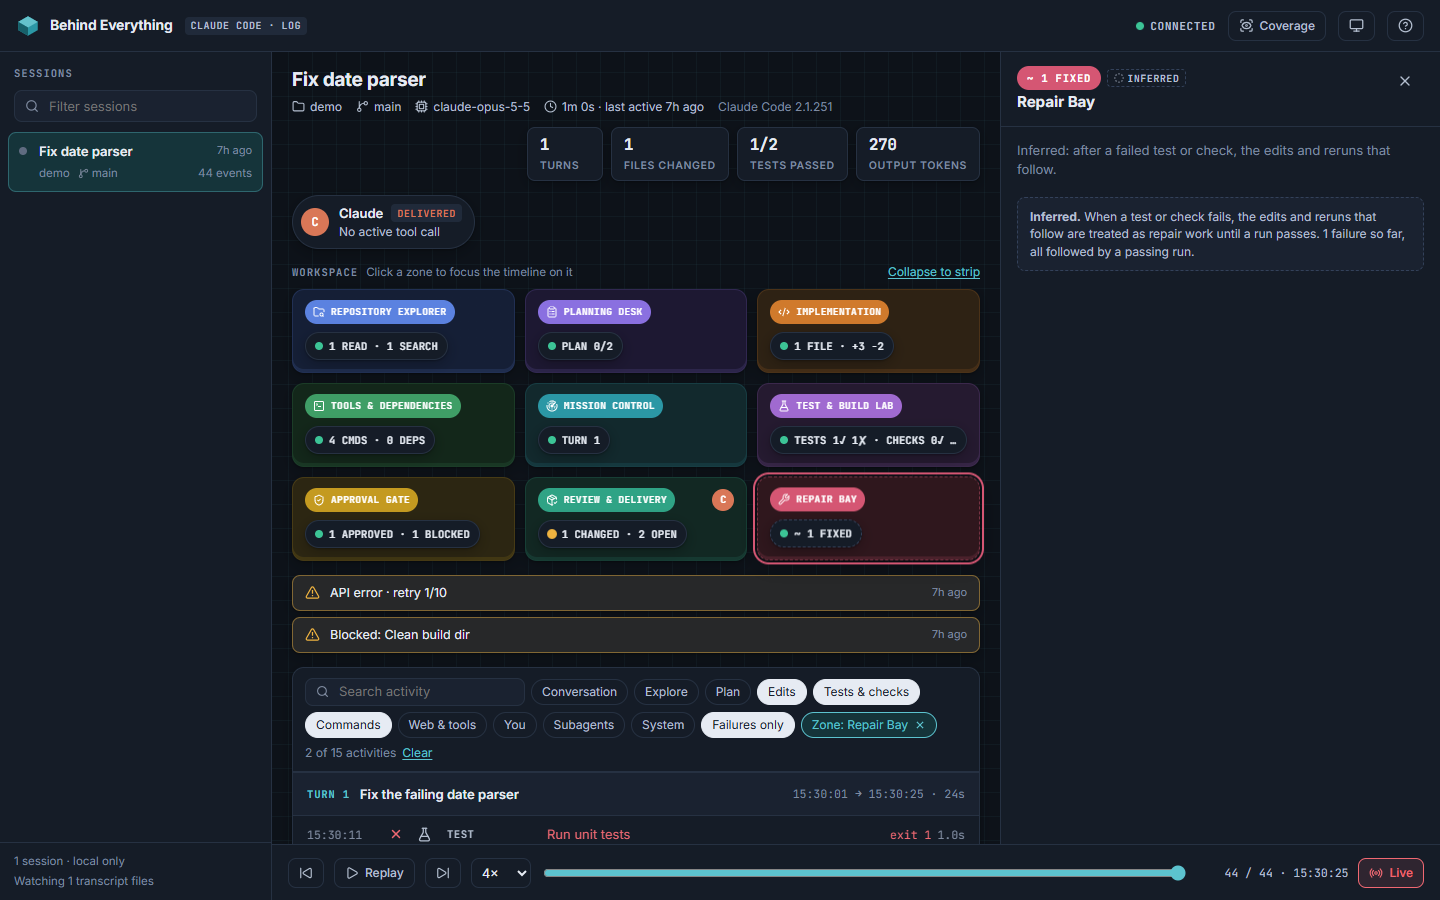
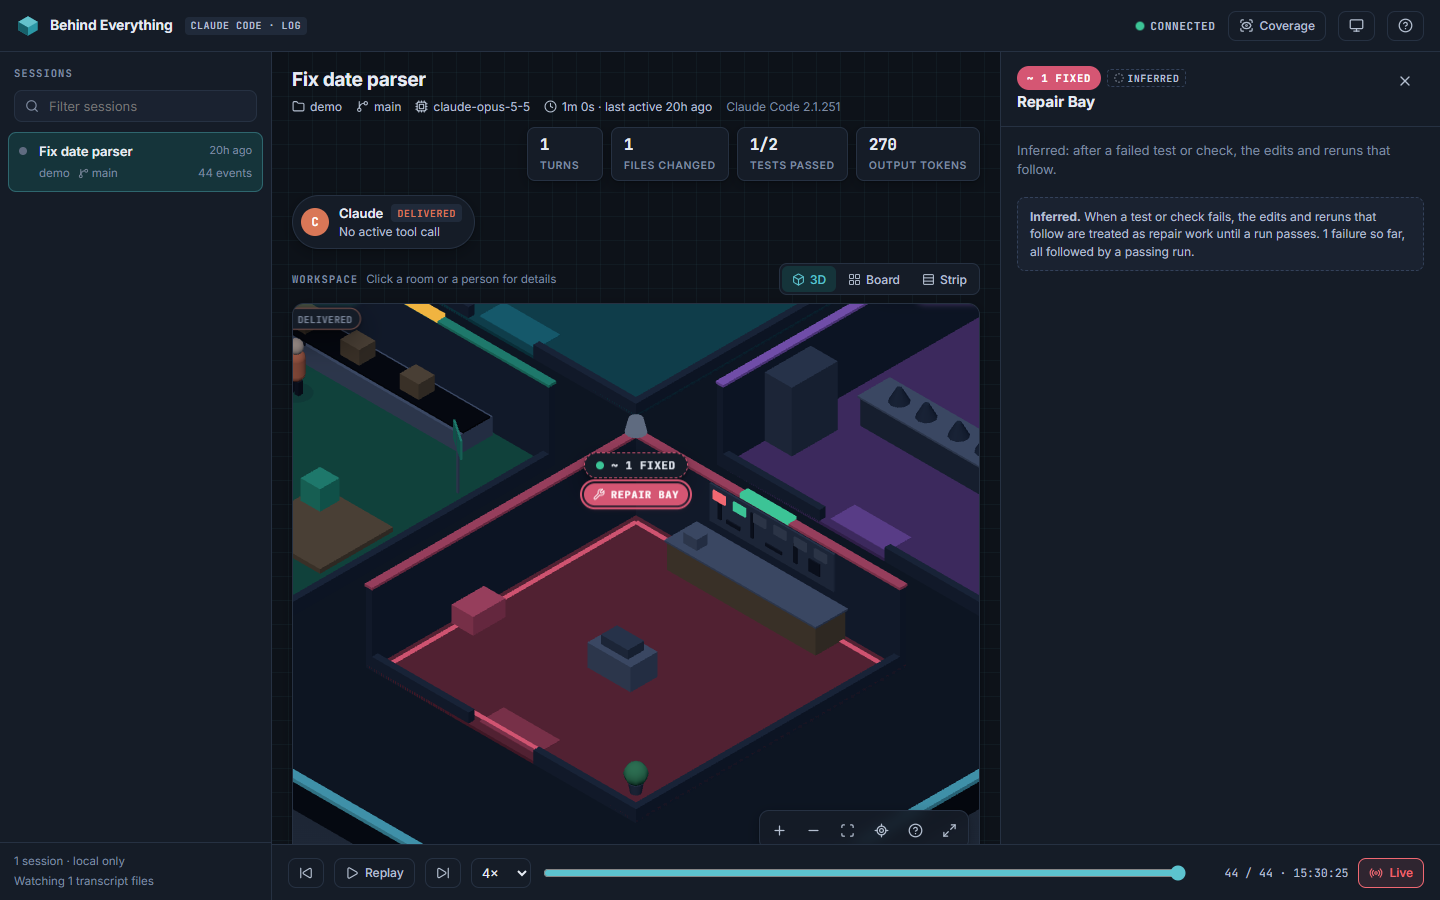
test(e2e): drive the 3D world on Chromium, Firefox and WebKit; docs for Phase 3
Browser tests for rendering, clicking rooms vs dragging, zoom by wheel,
buttons and keys, full screen, replay, themes, view switching, the
no-WebGL fallback, reduced motion, seven screen sizes with touch, and
event-to-pixel latency (asserted < 250 ms on Chromium). CI runs the
suite on all three engines. README and PLAN describe the world and the
measured performance; screenshots regenerated from the synthetic session.

Changed region(s): [[0.1875, 0.28, 0.6875, 0.9333], [0.5625, 0.84, 0.6875, 0.9333], [0.4688, 0.0933, 0.5938, 0.1244]]

diff --git a/e2e/world.e2e.ts b/e2e/world.e2e.ts
@@ -1,0 +1,240 @@
+import fs from 'node:fs';
+import path from 'node:path';
+import { expect, test, type Page } from '@playwright/test';
+import { TRANSCRIPT } from '../playwright.config.ts';
+import { demoSession, SESSION } from '../test/fixtures/claude.ts';
+
+/**
+ * The 3D workspace, driven like a user would: mouse, touch, keyboard, every common screen size,
+ * light and dark, reduced motion, and a browser without WebGL.
+ */
+
+type Stats = { frames: number; drawCalls: number; triangles: number; zoom: number; eventToPixelMs?: number };
+const stats = (page: Page) => page.evaluate(() => ({ ...(window as unknown as { __be: { world: Stats } }).__be.world }));
+const roomAt = (page: Page, zone: string) => page.evaluate(z => (window as unknown as { __be: { room(z: string): { x: number; y: number } } }).__be.room(z), zone);
+const map = (page: Page) => page.getByRole('group', { name: /Workspace map/ });
+const room = (page: Page, name: string) => map(page).getByRole('button', { name: new RegExp(`^${name}:`) });
+const ROOMS = ['Repository Explorer', 'Planning Desk', 'Implementation', 'Tools & Dependencies', 'Mission Control', 'Test & Build Lab', 'Approval Gate', 'Review & Delivery', 'Repair Bay'];
+
+function watchErrors(page: Page) {
+  const errors: string[] = [];
+  page.on('console', m => { if (m.type() === 'error') errors.push(m.text()); });
+  page.on('pageerror', e => errors.push(String(e)));
+  return errors;
+}
+
+async function open(page: Page, url = '/') {
+  await page.goto(url);
+  await expect(map(page).locator('canvas')).toBeVisible();
+  await expect.poll(async () => (await stats(page)).frames).toBeGreaterThan(0);
+}
+
+test('renders the building, its rooms and the agents from the session', async ({ page }) => {
+  const errors = watchErrors(page);
+  await open(page);
+  const s = await stats(page);
+  // The whole building is a handful of draw calls: merged static geometry + instanced props + people.
+  expect(s.drawCalls).toBeGreaterThan(2);
+  expect(s.drawCalls).toBeLessThan(40);
+  for (const name of ROOMS) await expect(room(page, name)).toBeVisible();
+  await expect(room(page, 'Test & Build Lab')).toContainText('TESTS 1✓ 1✗');
+  await expect(room(page, 'Repair Bay')).toContainText('~ 1 FIXED');
+  // Room labels sit inside the map.
+  const box = (await map(page).boundingBox())!;
+  for (const name of ROOMS) {
+    const b = (await room(page, name).boundingBox())!;
+    expect(b.x).toBeGreaterThanOrEqual(box.x - 1);
+    expect(b.x + b.width).toBeLessThanOrEqual(box.x + box.width + 1);
+    expect(b.y).toBeGreaterThanOrEqual(box.y - 1);
+  }
+  await expect(map(page).getByRole('button', { name: /^Claude:/ })).toBeVisible();
+  expect(errors).toEqual([]);
+});
+
+test('clicking a room on the map opens it; dragging moves the map without selecting', async ({ page }) => {
+  await open(page);
+  const details = page.getByRole('complementary', { name: 'Details' });
+  const p = await roomAt(page, 'implementation');
+  await page.mouse.click(p.x, p.y);
+  await expect(details.getByRole('heading')).toHaveText('Implementation');
+  await expect(room(page, 'Implementation')).toHaveAttribute('aria-pressed', 'true');
+  await page.keyboard.press('Escape');
+  await expect(details).toBeHidden();
+
+  // Drag across a room: the map pans, nothing gets selected.
+  const before = (await room(page, 'Mission Control').boundingBox())!;
+  const m = await roomAt(page, 'mission');
+  await page.mouse.move(m.x, m.y);
+  await page.mouse.down();
+  await page.mouse.move(m.x + 60, m.y + 30, { steps: 6 });
+  await page.mouse.up();
+  await expect.poll(async () => (await room(page, 'Mission Control').boundingBox())!.x).toBeGreaterThan(before.x + 40);
+  await expect(details).toBeHidden();
+});
+
+test('zooms with ctrl+wheel, the buttons and the keyboard; a plain wheel scrolls the page and explains', async ({ page }) => {
+  await open(page);
+  const zoom = async () => (await stats(page)).zoom;
+  const z0 = await zoom();
+  let m = await roomAt(page, 'mission');
+  await page.mouse.move(m.x, m.y);
+  await page.mouse.wheel(0, 300);
+  await expect(page.getByRole('status').filter({ hasText: 'Ctrl + scroll' })).toBeVisible();
+  expect(await zoom()).toBe(z0);
+  // That wheel scrolled the page: find the map again.
+  await map(page).scrollIntoViewIfNeeded();
+  m = await roomAt(page, 'mission');
+  await page.mouse.move(m.x, m.y);
+  await page.keyboard.down('Control');
+  await page.mouse.wheel(0, -200);
+  await page.keyboard.up('Control');
+  await expect.poll(zoom).toBeGreaterThan(z0 * 1.3);
+
+  await page.getByRole('button', { name: 'Fit the map' }).click();
+  await expect.poll(zoom).toBeCloseTo(z0, 1);
+  await page.getByRole('button', { name: 'Zoom in' }).click();
+  await expect.poll(zoom).toBeGreaterThan(z0 * 1.3);
+
+  await map(page).focus();
+  await page.keyboard.press('0');
+  await expect.poll(zoom).toBeCloseTo(z0, 1);
+  await page.keyboard.press('+');
+  await expect.poll(zoom).toBeGreaterThan(z0 * 1.2);
+  // Arrow keys pan the focused map instead of moving through the timeline.
+  const x0 = (await room(page, 'Mission Control').boundingBox())!.x;
+  await page.keyboard.press('ArrowLeft');
+  await expect.poll(async () => (await room(page, 'Mission Control').boundingBox())!.x).toBeGreaterThan(x0 + 40);
+  await expect(page.getByRole('complementary', { name: 'Details' })).toBeHidden();
+});
+
+test('full screen map: fills the window, keeps replay and details usable, Esc returns', async ({ page }) => {
+  await open(page);
+  await page.getByRole('button', { name: 'Full screen map' }).click();
+  const vp = page.viewportSize()!;
+  await expect.poll(async () => (await map(page).boundingBox())!.width).toBe(vp.width);
+  await expect(page.getByRole('slider', { name: 'Replay position' })).toBeVisible();
+  await room(page, 'Test & Build Lab').click();
+  await expect(page.getByRole('complementary', { name: 'Details' })).toBeVisible();
+  await page.keyboard.press('Escape'); // first closes the details…
+  await expect(page.getByRole('complementary', { name: 'Details' })).toBeHidden();
+  await page.keyboard.press('Escape'); // …then leaves full screen
+  await expect.poll(async () => (await map(page).boundingBox())!.width).toBeLessThan(vp.width);
+});
+
+test('replays through the world: the agent goes back to where it was', async ({ page }) => {
+  await open(page);
+  const claude = map(page).getByRole('button', { name: /^Claude:/ });
+  await page.getByRole('slider', { name: 'Replay position' }).fill('5');
+  await expect(claude).toHaveAttribute('aria-label', /Exploring/);
+  await expect(room(page, 'Implementation')).toContainText('0 FILES');
+  await page.keyboard.press('l');
+  await expect(room(page, 'Implementation')).toContainText('1 FILE');
+});
+
+test('follows the theme and keeps rendering', async ({ page }) => {
+  const errors = watchErrors(page);
+  await open(page);
+  const before = (await stats(page)).frames;
+  await page.getByRole('button', { name: /^Theme:/ }).click(); // system → light
+  await page.getByRole('button', { name: /^Theme:/ }).click(); // light → dark
+  await expect.poll(() => page.evaluate(() => document.documentElement.dataset.theme)).toBe('dark');
+  await expect.poll(async () => (await stats(page)).frames).toBeGreaterThan(before);
+  expect(errors).toEqual([]);
+});
+
+test('switches between 3D, board and strip, and remembers the choice', async ({ page }) => {
+  await open(page);
+  await page.getByRole('radio', { name: 'Board' }).click();
+  await expect(page.getByRole('region', { name: 'Workspace zones' })).toBeVisible();
+  await expect(map(page)).toHaveCount(0);
+  await page.reload();
+  await expect(page.getByRole('region', { name: 'Workspace zones' })).toBeVisible();
+  await page.getByRole('radio', { name: '3D' }).click();
+  await expect(map(page).locator('canvas')).toBeVisible();
+});
+
+test('without WebGL the board takes over and says why', async ({ browser }) => {
+  const context = await browser.newContext();
+  await context.addInitScript(() => {
+    const original = HTMLCanvasElement.prototype.getContext;
+    HTMLCanvasElement.prototype.getContext = function (this: HTMLCanvasElement, type: string, ...rest: unknown[]) {
+      return type === 'webgl2' || type === 'webgl' ? null : (original as (...a: unknown[]) => unknown).call(this, type, ...rest);
+    } as typeof original;
+  });
+  const page = await context.newPage();
+  const errors = watchErrors(page);
+  await page.goto('/');
+  await expect(page.getByText(/The 3D map is unavailable/)).toBeVisible();
+  await expect(page.getByRole('region', { name: 'Workspace zones' }).getByRole('button', { name: /^Repair Bay/ })).toContainText('FIXED');
+  await expect(page.getByRole('radio', { name: '3D' })).toBeDisabled();
+  expect(errors).toEqual([]);
+  await context.close();
+});
+
+test('with reduced motion the world still shows everything', async ({ browser }) => {
+  const context = await browser.newContext({ reducedMotion: 'reduce' });
+  const page = await context.newPage();
+  await open(page);
+  await expect(room(page, 'Repair Bay')).toBeVisible();
+  await page.getByRole('slider', { name: 'Replay position' }).fill('5');
+  await expect(map(page).getByRole('button', { name: /^Claude:/ })).toHaveAttribute('aria-label', /Exploring/);
+  await context.close();
+});
+
+const SCREENS = [
+  { name: 'small phone', width: 360, height: 740, touch: true },
+  { name: 'phone', width: 390, height: 844, touch: true },
+  { name: 'phone landscape', width: 844, height: 390, touch: true },
+  { name: 'tablet', width: 768, height: 1024, touch: true },
+  { name: 'tablet landscape', width: 1024, height: 768, touch: true },
+  { name: 'laptop', width: 1366, height: 768, touch: false },
+  { name: 'desktop', width: 1920, height: 1080, touch: false },
+];
+
+for (const screen of SCREENS) {
+  test(`fits a ${screen.name} (${screen.width}×${screen.height}) without sideways scrolling`, async ({ browser }) => {
+    const context = await browser.newContext({ viewport: { width: screen.width, height: screen.height }, hasTouch: screen.touch, isMobile: screen.touch && screen.width < 900 });
+    const page = await context.newPage();
+    const errors = watchErrors(page);
+    await open(page);
+    await map(page).scrollIntoViewIfNeeded();
+    expect(await page.evaluate(() => document.documentElement.scrollWidth)).toBeLessThanOrEqual(screen.width);
+    const box = (await map(page).boundingBox())!;
+    expect(box.width).toBeLessThanOrEqual(screen.width);
+    expect(box.height).toBeGreaterThanOrEqual(200);
+    // Every room can be reached, and tapping one opens it.
+    for (const name of ROOMS) await expect(room(page, name)).toBeAttached();
+    if (screen.touch) await room(page, 'Repair Bay').tap();
+    else await room(page, 'Repair Bay').click();
+    await expect(page.getByRole('complementary', { name: 'Details' })).toBeVisible();
+    const details = (await page.getByRole('complementary', { name: 'Details' }).boundingBox())!;
+    expect(details.x).toBeGreaterThanOrEqual(-1);
+    expect(details.x + details.width).toBeLessThanOrEqual(screen.width + 1);
+    await expect(page.getByRole('slider', { name: 'Replay position' })).toBeVisible();
+    expect(errors).toEqual([]);
+    await context.close();
+  });
+}
+
+test('new activity reaches the screen within 250 ms of arriving', async ({ page }) => {
+  // A fresh live session, so the timing is not mixed up with the other tests' data.
+  const id = '99999999-8888-7777-6666-555555555555';
+  const file = path.join(path.dirname(TRANSCRIPT), `${id}.jsonl`);
+  // New session and record ids: event ids derive from Claude's record uuids, which are unique in real transcripts.
+  const lines = demoSession().main.jsonl().split('\n').filter(Boolean).map(l => l.replaceAll(SESSION, id).replaceAll('"m-', '"w-'));
+  fs.writeFileSync(file, lines.slice(0, 6).join('\n') + '\n');
+  await expect.poll(async () => (await (await page.request.get('/api/sessions')).json()).some((s: { native_id: string }) => s.native_id === id), { timeout: 10_000 }).toBe(true);
+  await open(page, `/?session=claude-code:${id}`);
+  const latencies: number[] = [];
+  for (const line of lines.slice(6, 12)) {
+    await page.evaluate(() => { (window as unknown as { __be: { world: Stats } }).__be.world.eventToPixelMs = undefined; });
+    fs.appendFileSync(file, line + '\n');
+    await expect.poll(async () => (await stats(page)).eventToPixelMs, { timeout: 10_000 }).toBeDefined();
+    latencies.push((await stats(page)).eventToPixelMs!);
+  }
+  test.info().annotations.push({ type: 'event-to-pixel (ms)', description: latencies.map(l => l.toFixed(0)).join(', ') });
+  console.log(`event-to-pixel (ms): ${latencies.map(l => l.toFixed(0)).join(', ')}`);
+  // The 250 ms budget is asserted on Chromium (and measured on real GPUs). Headless Firefox and WebKit composite
+  // WebGL in software at 2–10 fps, which measures the test machine rather than the app: recorded, not asserted.
+  if ((process.env.PW_BROWSER ?? 'chromium') === 'chromium') expect(Math.max(...latencies)).toBeLessThan(250);
+});

diff --git a/playwright.config.ts b/playwright.config.ts
@@ -25,11 +25,17 @@ export default defineConfig({
   fullyParallel: false,
   workers: 1,
   retries: process.env.CI ? 1 : 0,
+  // Headless Firefox and WebKit draw WebGL in software and are several times slower than Chromium.
+  ...(process.env.PW_BROWSER && process.env.PW_BROWSER !== 'chromium' ? { timeout: 240_000, expect: { timeout: 20_000 } } : {}),
   reporter: process.env.CI ? 'github' : 'list',
   use: {
     baseURL: `http://127.0.0.1:${PORT}`,
+    // One engine per run (the live test appends to the shared transcript): PW_BROWSER=firefox|webkit.
+    browserName: (process.env.PW_BROWSER as 'chromium' | 'firefox' | 'webkit' | undefined) ?? 'chromium',
     // Locally, an installed Edge/Chrome avoids downloading a browser: PW_CHANNEL=msedge pnpm test:e2e
     channel: process.env.PW_CHANNEL || undefined,
+    // Headless Chromium on machines without a GPU needs SwiftShader allowed explicitly for WebGL.
+    launchOptions: process.env.PW_BROWSER && process.env.PW_BROWSER !== 'chromium' ? {} : { args: ['--enable-unsafe-swiftshader'] },
     viewport: { width: 1440, height: 900 },
     trace: 'retain-on-failure',
   },

diff --git a/e2e/app.e2e.ts b/e2e/app.e2e.ts
@@ -103,11 +103,16 @@ test('README screenshots', async () => {
   await page.setViewportSize({ width: 1440, height: 900 });
   await page.keyboard.press('Escape');
   await page.evaluate(() => (document.activeElement as HTMLElement | null)?.blur());
+  // Earlier tests leave the page scrolled; every shot starts from the top, with the map settled.
+  const top = async () => { await page.evaluate(() => document.querySelector('.main')?.scrollTo(0, 0)); await page.waitForTimeout(900); };
+  await top();
   await page.screenshot({ path: 'docs/images/overview.png' });
   await page.getByRole('button', { name: 'Edits', exact: true }).click();
   await timeline().getByRole('option').first().click();
+  await top();
   await page.screenshot({ path: 'docs/images/inspector.png' });
   await page.evaluate(() => { document.documentElement.dataset.theme = 'dark'; });
   await zone('Repair Bay').click();
+  await top();
   await page.screenshot({ path: 'docs/images/dark-repair.png' });
 });

diff --git a/docs/PLAN.md b/docs/PLAN.md
@@ -4,7 +4,7 @@ Working name: **Behind Everything** (product brief: `agent_activity_visualizer_p
 A local-first observability layer that turns what Claude Code, Codex and Copilot *actually do* into a live,
 explorable isometric world — with every signal labelled **observed**, **inferred** or **unavailable**.
 
-Status: v0.3 · 2026-10-29 — Phases 0–2 delivered for Claude Code (see [CAPABILITIES.md](CAPABILITIES.md)); next: Phase 3, the 3D world
+Status: v0.4 · 2026-10-30 — Phases 0–3 delivered for Claude Code (see [CAPABILITIES.md](CAPABILITIES.md)); next: Phase 4, Codex + Copilot adapters
 
 ---
 
@@ -223,6 +223,19 @@ docs/            PLAN, CAPABILITIES
 **Phase 3 — The world**
 - Isometric scene, 9 zones, pills bound to `SessionState`, agent avatars + pathing, subagents, click-to-focus camera, replay through the world, reduced-motion mode.
 - ✅ Exit: 60 fps on integrated GPU with 3 concurrent sessions; event-to-pixel < 250 ms.
+
+**Phase 3 — delivered notes**
+- **Renderer:** plain three.js (no React Three Fiber), lazy-loaded as its own chunk (~150 kB gzip) so the rest of the screen never waits for it. Orthographic isometric camera; render-on-demand (0 fps when nothing moves; gentle idle motion capped at 30 fps; paused when the map is off-screen or the tab is hidden).
+- **Pure core, thin renderer:** `web/src/world/` splits into pure, unit-tested modules — `layout` (3×3 building, corridor graph, Dijkstra routes, stations), `model` (room props and agents derived from `SessionState` only), `motion` (walking, re-routing mid-walk without teleporting, snapping), `camera` (fit, pan, pinch, zoom-around-cursor, clamping) — and `build`/`engine`, which only draw. The whole building is one merged draw call; data-bound props are two instanced meshes.
+- **Props are real counts:** books = files read, sticky notes = plan items (by status), lit monitors = files changed, server LEDs = commands (running / failed / ok), test tubes = verdict share (newest first), decision lamps = approvals / blocks / waiting, crates = files for review, Repair Bay lamps = failures and reruns. The Approval Gate barrier is down while something waits for the user; the Repair Bay beacon turns while a failure is unfixed. Status bars on every back wall; a ripple crosses a room's floor when an event lands in it.
+- **Where agents are is now part of the deterministic state** (`AgentState.zone`): thinking happens wherever the agent already is; only a new prompt calls it back to Mission Control. This removed the agent bouncing between rooms on every reasoning block, and the 2D board uses the same field.
+- **Labels are DOM, not WebGL:** room pills/badges and agent tags are real buttons positioned each frame — sharp at any DPI, keyboard-focusable, screen-reader named, and the existing tests run against the 3D map unchanged. Four label densities (tiny icon-only on phones → full detail up close).
+- **Input:** one pointer-event path for mouse, pen and touch; drag to pan (a drag never selects), Ctrl/⌘+wheel or trackpad pinch to zoom around the cursor, two-finger pinch on touch, arrows / + / − / 0 on the focused map. Embedded in the page, a plain wheel or one-finger drag scrolls the page and a hint explains how to move the map; full-screen mode takes every gesture. Click a room (or its label) for its details; click a person for what they are doing now. Follow-Claude camera.
+- **Resilience:** WebGL 2 detected up front; no WebGL, a failed chunk, a render crash or a context that does not come back within 4 s all fall back to the 2D board with the reason shown. Reduced motion: agents and camera jump, no ripples, no idle motion. Themes re-read from the same CSS tokens.
+- **Responsive app-wide:** phone layout for the top bar, stats, timeline rows, replay bar and details panel; tested with no sideways scrolling at 360×740, 390×844, 844×390, 768×1024, 1024×768, 1366×768 and 1920×1080, with touch where applicable. Browser tests run on Chromium, Firefox and WebKit in CI.
+- **Bugs found while building it:** re-inserting into a `Map` while iterating it froze the page on theme change with an agent on screen — fixed and covered by a browser test.
+- **Measured** (Windows 11, Intel HD Graphics 400 — a low-end integrated GPU — Edge, continuous panning): **60.3 fps at 1440×900, 57.8 fps at 2560×1440**, 11 draw calls, ~7.4k triangles. Idle: 0 fps; ambient motion: 30 fps. Event-to-pixel (WebSocket message → frame on screen): asserted < 250 ms in the browser tests. Only the selected session is drawn, so the cost does not grow with the number of sessions the collector is tailing (measured with one live session).
+- Found by measuring: the 30 fps idle-motion cap was also throttling frames requested by input, so dragging ran at 22 fps whenever an agent was busy; input and data changes now always draw on the next frame.
 
 **Phase 4 — Codex + Copilot CLI adapters, hook bridge**
 - Adapters from fixtures; `hooks install` for all three (writes to user config with backup + clean uninstall); Approval Gate live for all.

diff --git a/README.md b/README.md
@@ -4,7 +4,7 @@ See what your AI coding agent is actually doing.
 
 Behind Everything is a local-first app that watches Claude Code (and later Codex and GitHub Copilot) sessions
 as they run and turns their real activity — files read, edits made, commands run, tests, approvals, subagents —
-into a live workspace map, a searchable timeline and replayable sessions.
+into a live 3D workspace, a searchable timeline and replayable sessions.
 
 Every signal is labelled **observed**, **inferred** or **unavailable**. Nothing leaves your machine.
 
@@ -32,7 +32,7 @@ Nothing to configure in Claude Code. Options: `pnpm start -- --help`.
 | --- | --- |
 | **Sessions** | Every recent Claude Code session, live ones marked. Pick one to explore. |
 | **Agents** | Claude and any subagents, each with its current phase (exploring, implementing, testing, waiting for you…) and the tool call it is running, with a live timer. |
-| **Workspace** | Nine zones — Explorer, Planning, Implementation, Tools, Mission Control, Test & Build Lab, Approval Gate, Review, Repair Bay — each with a live status pill. Agents appear in the zone they are working in. Click a zone for its details and to focus the timeline on it. |
+| **Workspace** | An isometric building with nine rooms — Explorer, Planning, Implementation, Tools, Mission Control, Test & Build Lab, Approval Gate, Review, Repair Bay — each with a live status pill. Claude and its subagents walk the corridors to the room of what they are doing now. The furniture is data: books are files read, sticky notes are plan items, lit monitors are files changed, test tubes are verdicts, crates are files ready for review; the Approval Gate's barrier drops while something waits for you and the Repair Bay beacon turns while a failure is unfixed. Click a room for its details, a person for what they are doing. Also available as a flat board or a strip. |
 | **Needs attention** | Failed tests and commands, blocked actions, questions for you, edit loops, commands running too long. Click to jump to the evidence. |
 | **Timeline** | Every action, grouped by turn: tool calls paired with their results, exit codes, durations, diff sizes. Filter by kind, failures, agent or file; search everything. |
 | **Details** | The full story of one action: command and output, the actual diff, the plan, the question and your answer, permission decisions — and the raw transcript record it came from. |
@@ -48,6 +48,16 @@ the events behind it — for example the Repair Bay, or a test run that exited 0
 ### Keyboard
 
 `j`/`k` next/previous · `Esc` close · `/` search · `f` failures only · `Space` play/pause · `[` `]` step · `l` live · `?` help
+
+On the map: drag to move · Ctrl/⌘ + scroll, trackpad pinch or two-finger pinch to zoom · with the map focused, arrow keys move, `+`/`−` zoom, `0` fits.
+Full screen (⤢) gives the map every gesture; `Esc` returns.
+
+### Devices and browsers
+
+Works on phones, tablets, laptops and large screens, with touch, mouse, pen or keyboard, in Chrome, Edge, Firefox and Safari
+(browser tests run on Chromium, Firefox and WebKit at seven screen sizes). The 3D map needs WebGL 2; without it — or if
+the graphics driver gives up — the flat board takes over and says why. *Reduce motion* is honoured: agents and the
+camera jump instead of moving.
 
 ## API
 
